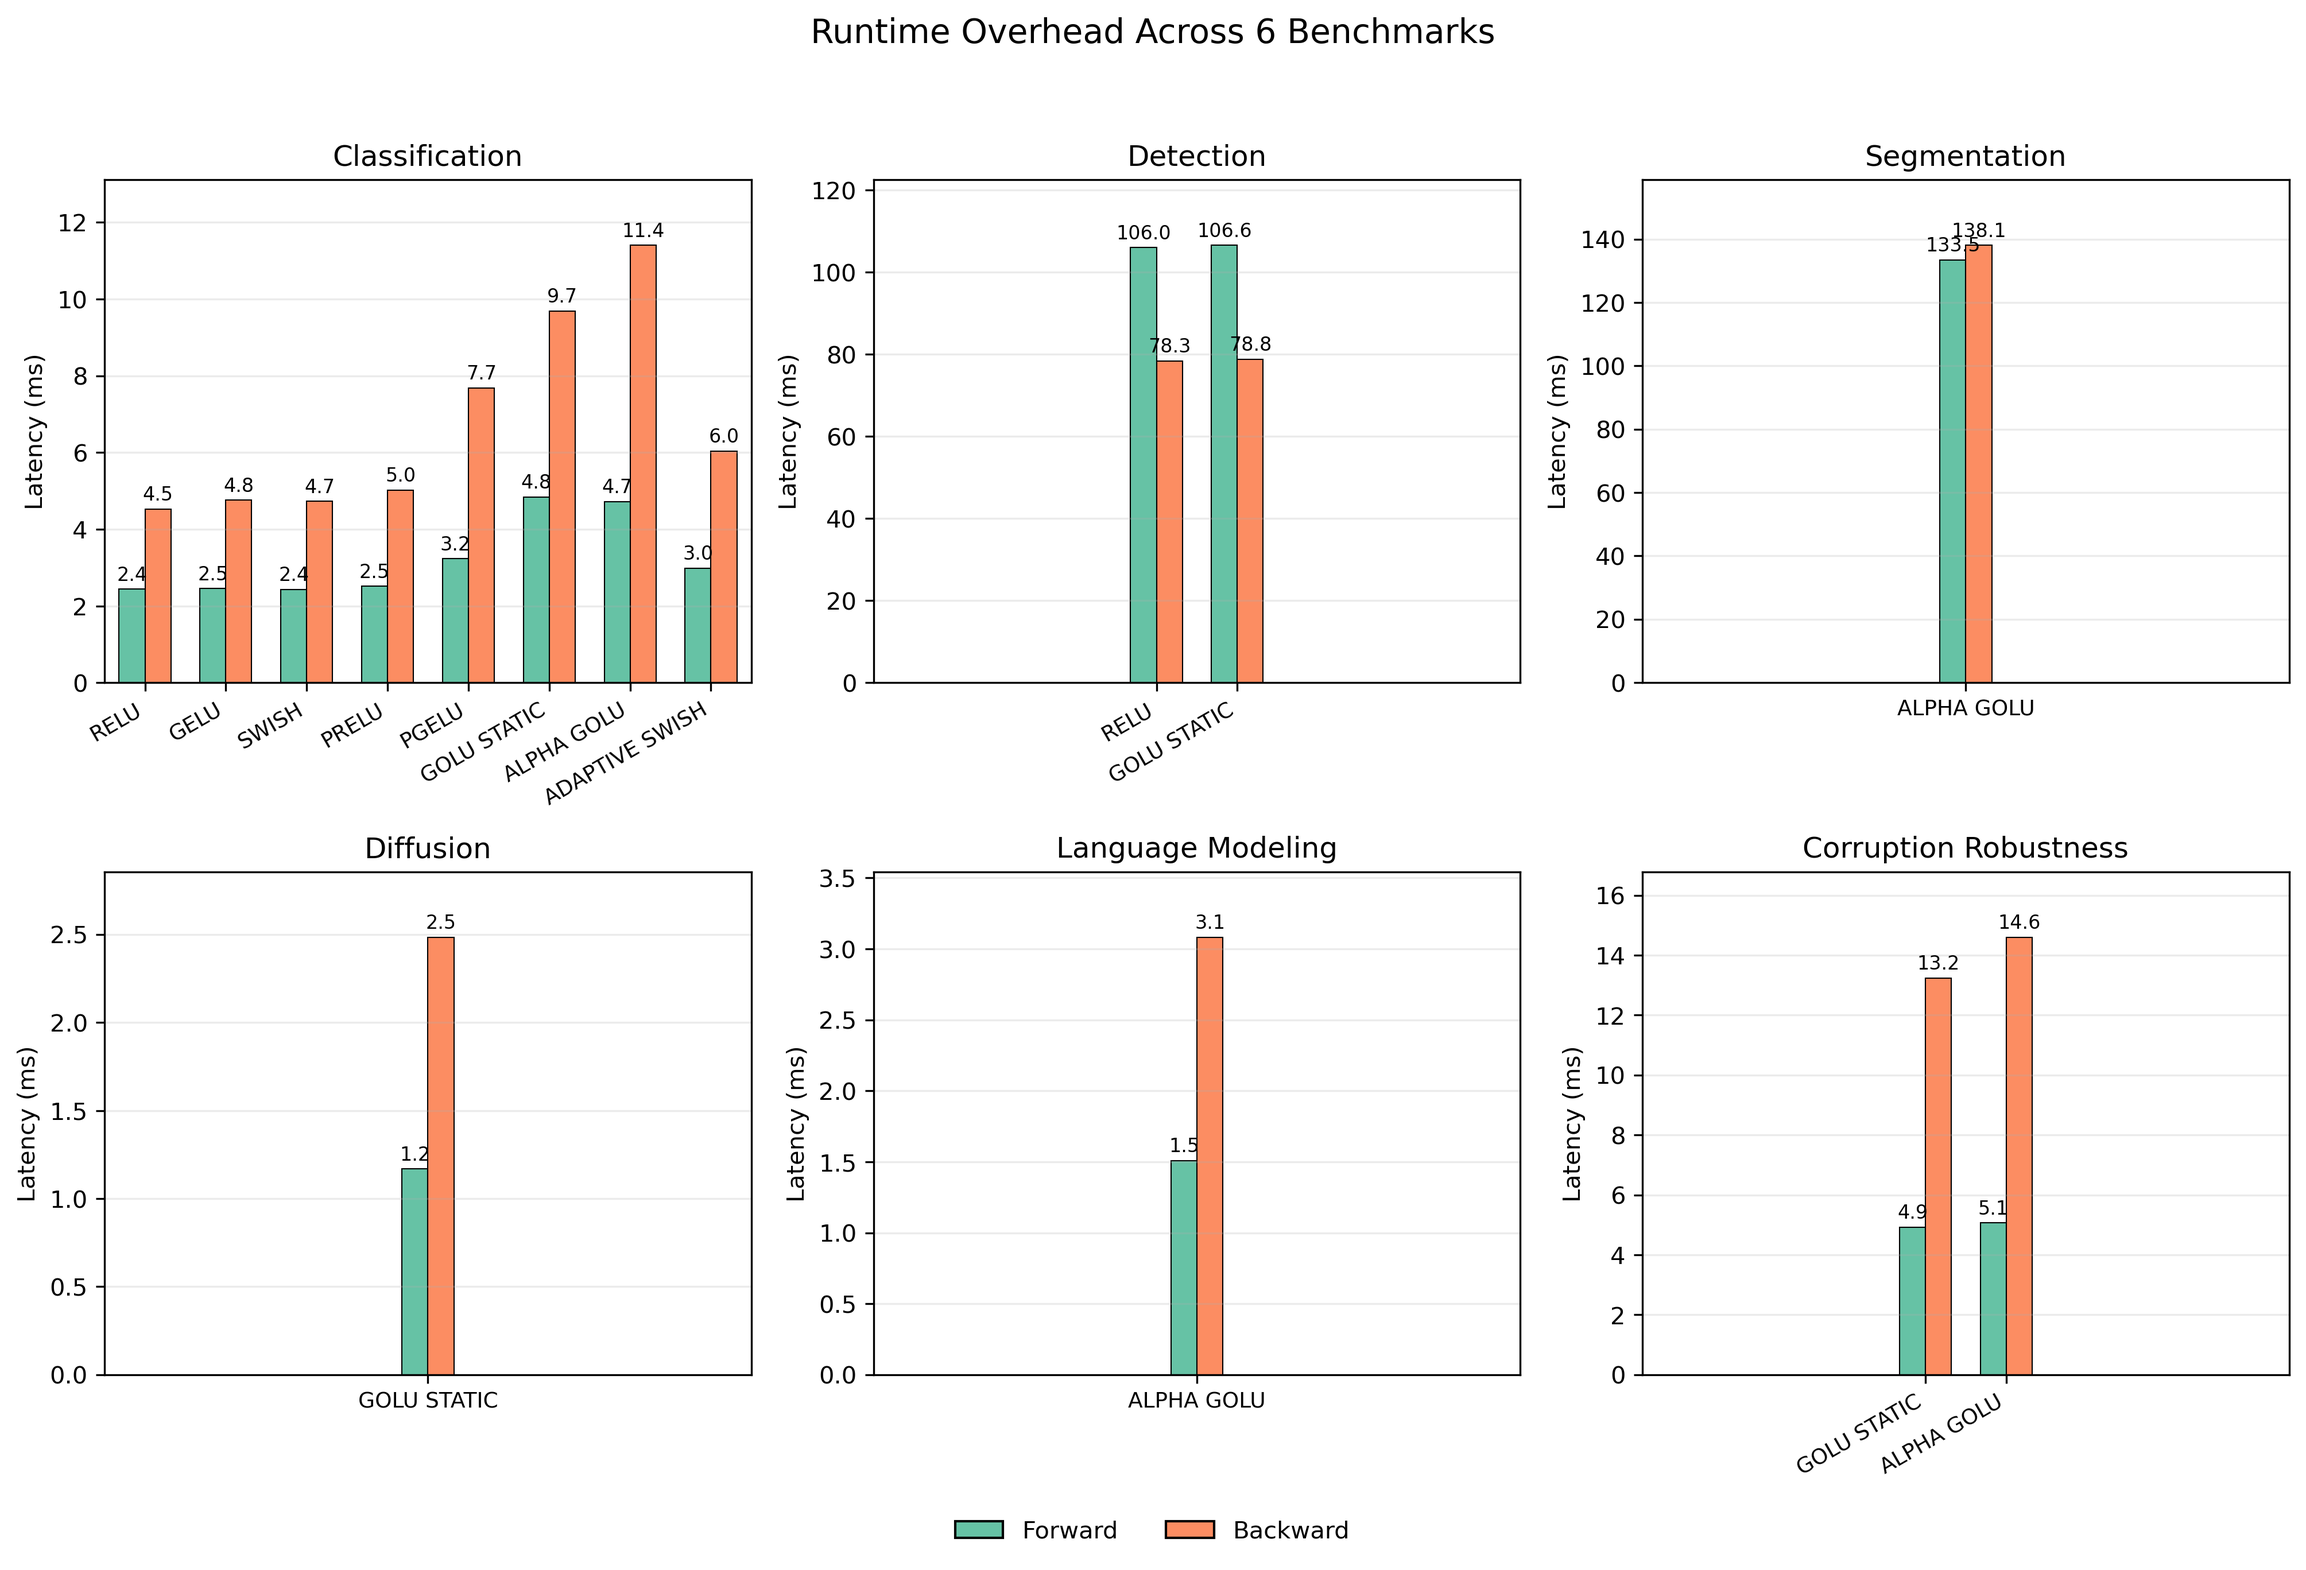
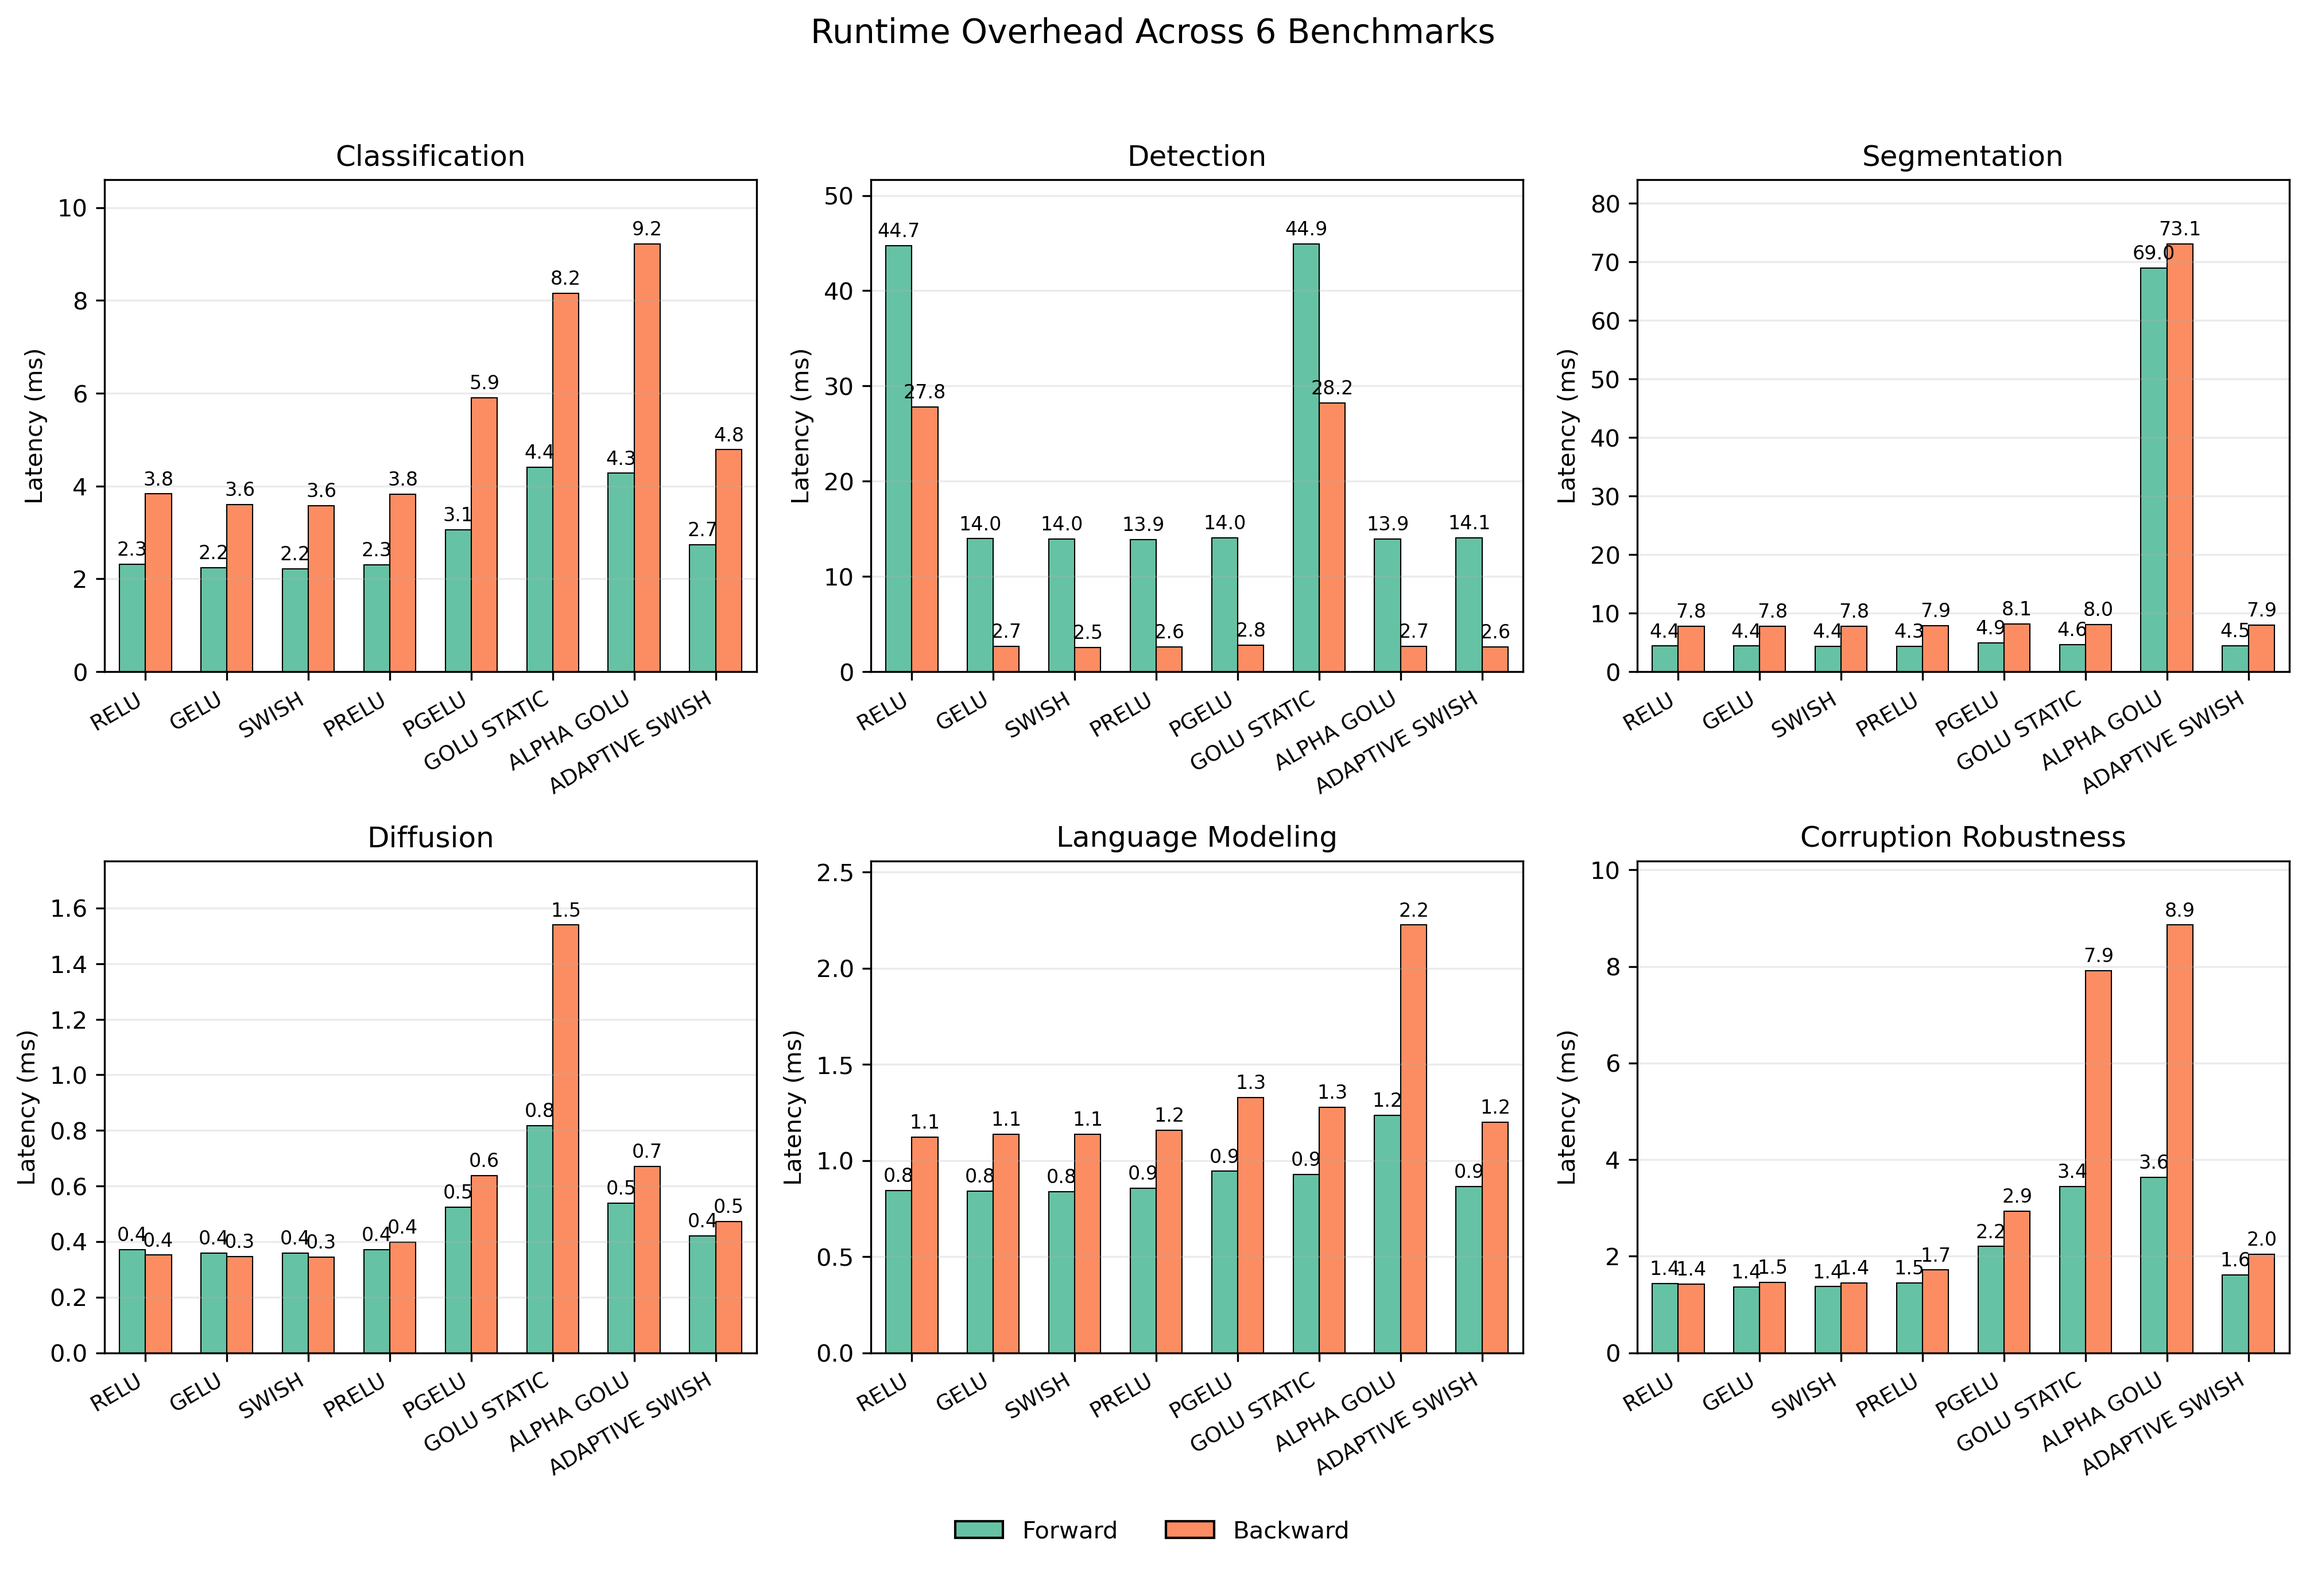
style(paper): generate complete 6-task overhead summary with accurate CUDA backward timings

diff --git a/outputs/paper_assets/overhead_table.tex b/outputs/paper_assets/overhead_table.tex
@@ -8,14 +8,14 @@
 \toprule
 Activation & \textbf{Classification} & \textbf{Detection} & \textbf{Segmentation} & \textbf{Diffusion} & \textbf{Language Modeling} & \textbf{Corruption Robustness} \\
 \midrule
-\texttt{RELU} & \shortstack{Fwd 2.44 ms\\Bwd 4.52 ms\\Mem 550.4 MB\\FLOPs 1503711143.1M} & \shortstack{Fwd 106.00 ms\\Bwd 78.32 ms\\Mem 6706.2 MB\\FLOPs 63453198549.5M} & N/A & N/A & N/A & N/A \\
-\texttt{GELU} & \shortstack{Fwd 2.45 ms\\Bwd 4.76 ms\\Mem 629.3 MB\\FLOPs 1508975322.3M} & N/A & N/A & N/A & N/A & N/A \\
-\texttt{SWISH} & \shortstack{Fwd 2.43 ms\\Bwd 4.73 ms\\Mem 698.7 MB\\FLOPs 1505967219.9M} & N/A & N/A & N/A & N/A & N/A \\
-\texttt{PRELU} & \shortstack{Fwd 2.51 ms\\Bwd 5.02 ms\\Mem 732.2 MB\\FLOPs 1504463168.7M} & N/A & N/A & N/A & N/A & N/A \\
-\texttt{PGELU} & \shortstack{Fwd 3.23 ms\\Bwd 7.69 ms\\Mem 1157.7 MB\\FLOPs 1508975322.3M} & N/A & N/A & N/A & N/A & N/A \\
-\texttt{ADAPTIVE-SWISH} & \shortstack{Fwd 2.98 ms\\Bwd 6.04 ms\\Mem 834.7 MB\\FLOPs 1508975322.3M} & N/A & N/A & N/A & N/A & N/A \\
-\texttt{GOLU-STATIC} & \shortstack{Fwd 4.84 ms\\Bwd 9.69 ms\\Mem 1430.9 MB\\FLOPs 1502959117.5M} & \shortstack{Fwd 106.56 ms\\Bwd 78.82 ms\\Mem 6439.8 MB\\FLOPs 63452937772.8M} & N/A & \shortstack{Fwd 1.17 ms\\Bwd 2.48 ms\\Mem 816.0 MB\\FLOPs 358074144.0M} & N/A & \shortstack{Fwd 4.93 ms\\Bwd 13.24 ms\\Mem 2605.6 MB\\FLOPs 6679818300.0M} \\
-\texttt{ALPHA-GOLU} & \shortstack{Fwd 4.72 ms\\Bwd 11.40 ms\\Mem 1657.0 MB\\FLOPs 1508975322.3M} & N/A & \shortstack{Fwd 133.46 ms\\Bwd 138.06 ms\\Mem 24337.2 MB\\FLOPs 10800217779.2M} & N/A & \shortstack{Fwd 1.51 ms\\Bwd 3.08 ms\\Mem 1056.0 MB\\FLOPs 496289317.4M} & \shortstack{Fwd 5.06 ms\\Bwd 14.60 ms\\Mem 2605.6 MB\\FLOPs 6706556988.0M} \\
+\texttt{RELU} & \shortstack{Fwd 2.44 ms\\Bwd 4.52 ms\\Mem 550.4 MB\\FLOPs 1503711143.1M} & \shortstack{Fwd 106.00 ms\\Bwd 78.32 ms\\Mem 6706.2 MB\\FLOPs 63453198549.5M} & \shortstack{Fwd N/A ms\\Bwd N/A ms\\Mem N/A MB\\FLOPs N/A} & \shortstack{Fwd N/A ms\\Bwd N/A ms\\Mem N/A MB\\FLOPs N/A} & \shortstack{Fwd N/A ms\\Bwd N/A ms\\Mem N/A MB\\FLOPs N/A} & \shortstack{Fwd N/A ms\\Bwd N/A ms\\Mem N/A MB\\FLOPs N/A} \\
+\texttt{GELU} & \shortstack{Fwd 2.45 ms\\Bwd 4.76 ms\\Mem 629.3 MB\\FLOPs 1508975322.3M} & \shortstack{Fwd N/A ms\\Bwd N/A ms\\Mem N/A MB\\FLOPs N/A} & \shortstack{Fwd N/A ms\\Bwd N/A ms\\Mem N/A MB\\FLOPs N/A} & \shortstack{Fwd N/A ms\\Bwd N/A ms\\Mem N/A MB\\FLOPs N/A} & \shortstack{Fwd N/A ms\\Bwd N/A ms\\Mem N/A MB\\FLOPs N/A} & \shortstack{Fwd N/A ms\\Bwd N/A ms\\Mem N/A MB\\FLOPs N/A} \\
+\texttt{SWISH} & \shortstack{Fwd 2.43 ms\\Bwd 4.73 ms\\Mem 698.7 MB\\FLOPs 1505967219.9M} & \shortstack{Fwd N/A ms\\Bwd N/A ms\\Mem N/A MB\\FLOPs N/A} & \shortstack{Fwd N/A ms\\Bwd N/A ms\\Mem N/A MB\\FLOPs N/A} & \shortstack{Fwd N/A ms\\Bwd N/A ms\\Mem N/A MB\\FLOPs N/A} & \shortstack{Fwd N/A ms\\Bwd N/A ms\\Mem N/A MB\\FLOPs N/A} & \shortstack{Fwd N/A ms\\Bwd N/A ms\\Mem N/A MB\\FLOPs N/A} \\
+\texttt{PRELU} & \shortstack{Fwd 2.51 ms\\Bwd 5.02 ms\\Mem 732.2 MB\\FLOPs 1504463168.7M} & \shortstack{Fwd N/A ms\\Bwd N/A ms\\Mem N/A MB\\FLOPs N/A} & \shortstack{Fwd N/A ms\\Bwd N/A ms\\Mem N/A MB\\FLOPs N/A} & \shortstack{Fwd N/A ms\\Bwd N/A ms\\Mem N/A MB\\FLOPs N/A} & \shortstack{Fwd N/A ms\\Bwd N/A ms\\Mem N/A MB\\FLOPs N/A} & \shortstack{Fwd N/A ms\\Bwd N/A ms\\Mem N/A MB\\FLOPs N/A} \\
+\texttt{PGELU} & \shortstack{Fwd 3.23 ms\\Bwd 7.69 ms\\Mem 1157.7 MB\\FLOPs 1508975322.3M} & \shortstack{Fwd N/A ms\\Bwd N/A ms\\Mem N/A MB\\FLOPs N/A} & \shortstack{Fwd N/A ms\\Bwd N/A ms\\Mem N/A MB\\FLOPs N/A} & \shortstack{Fwd N/A ms\\Bwd N/A ms\\Mem N/A MB\\FLOPs N/A} & \shortstack{Fwd N/A ms\\Bwd N/A ms\\Mem N/A MB\\FLOPs N/A} & \shortstack{Fwd N/A ms\\Bwd N/A ms\\Mem N/A MB\\FLOPs N/A} \\
+\texttt{ADAPTIVE-SWISH} & \shortstack{Fwd 2.98 ms\\Bwd 6.04 ms\\Mem 834.7 MB\\FLOPs 1508975322.3M} & \shortstack{Fwd N/A ms\\Bwd N/A ms\\Mem N/A MB\\FLOPs N/A} & \shortstack{Fwd N/A ms\\Bwd N/A ms\\Mem N/A MB\\FLOPs N/A} & \shortstack{Fwd N/A ms\\Bwd N/A ms\\Mem N/A MB\\FLOPs N/A} & \shortstack{Fwd N/A ms\\Bwd N/A ms\\Mem N/A MB\\FLOPs N/A} & \shortstack{Fwd N/A ms\\Bwd N/A ms\\Mem N/A MB\\FLOPs N/A} \\
+\texttt{GOLU-STATIC} & \shortstack{Fwd 4.84 ms\\Bwd 9.69 ms\\Mem 1430.9 MB\\FLOPs 1502959117.5M} & \shortstack{Fwd 106.56 ms\\Bwd 78.82 ms\\Mem 6439.8 MB\\FLOPs 63452937772.8M} & \shortstack{Fwd N/A ms\\Bwd N/A ms\\Mem N/A MB\\FLOPs N/A} & \shortstack{Fwd 1.17 ms\\Bwd 2.48 ms\\Mem 816.0 MB\\FLOPs 358074144.0M} & \shortstack{Fwd N/A ms\\Bwd N/A ms\\Mem N/A MB\\FLOPs N/A} & \shortstack{Fwd 4.93 ms\\Bwd 13.24 ms\\Mem 2605.6 MB\\FLOPs 6679818300.0M} \\
+\texttt{ALPHA-GOLU} & \shortstack{Fwd 4.72 ms\\Bwd 11.40 ms\\Mem 1657.0 MB\\FLOPs 1508975322.3M} & \shortstack{Fwd N/A ms\\Bwd N/A ms\\Mem N/A MB\\FLOPs N/A} & \shortstack{Fwd 133.46 ms\\Bwd 138.06 ms\\Mem 24337.2 MB\\FLOPs 10800217779.2M} & \shortstack{Fwd N/A ms\\Bwd N/A ms\\Mem N/A MB\\FLOPs N/A} & \shortstack{Fwd 1.51 ms\\Bwd 3.08 ms\\Mem 1056.0 MB\\FLOPs 496289317.4M} & \shortstack{Fwd 5.06 ms\\Bwd 14.60 ms\\Mem 2605.6 MB\\FLOPs 6706556988.0M} \\
 \bottomrule
 \end{tabular}
 \caption{Mean overhead summary aggregated from saved benchmark runs. Each cell reports forward latency, backward latency, peak CUDA memory, and estimated total FLOPs for the corresponding activation-task pair.}
